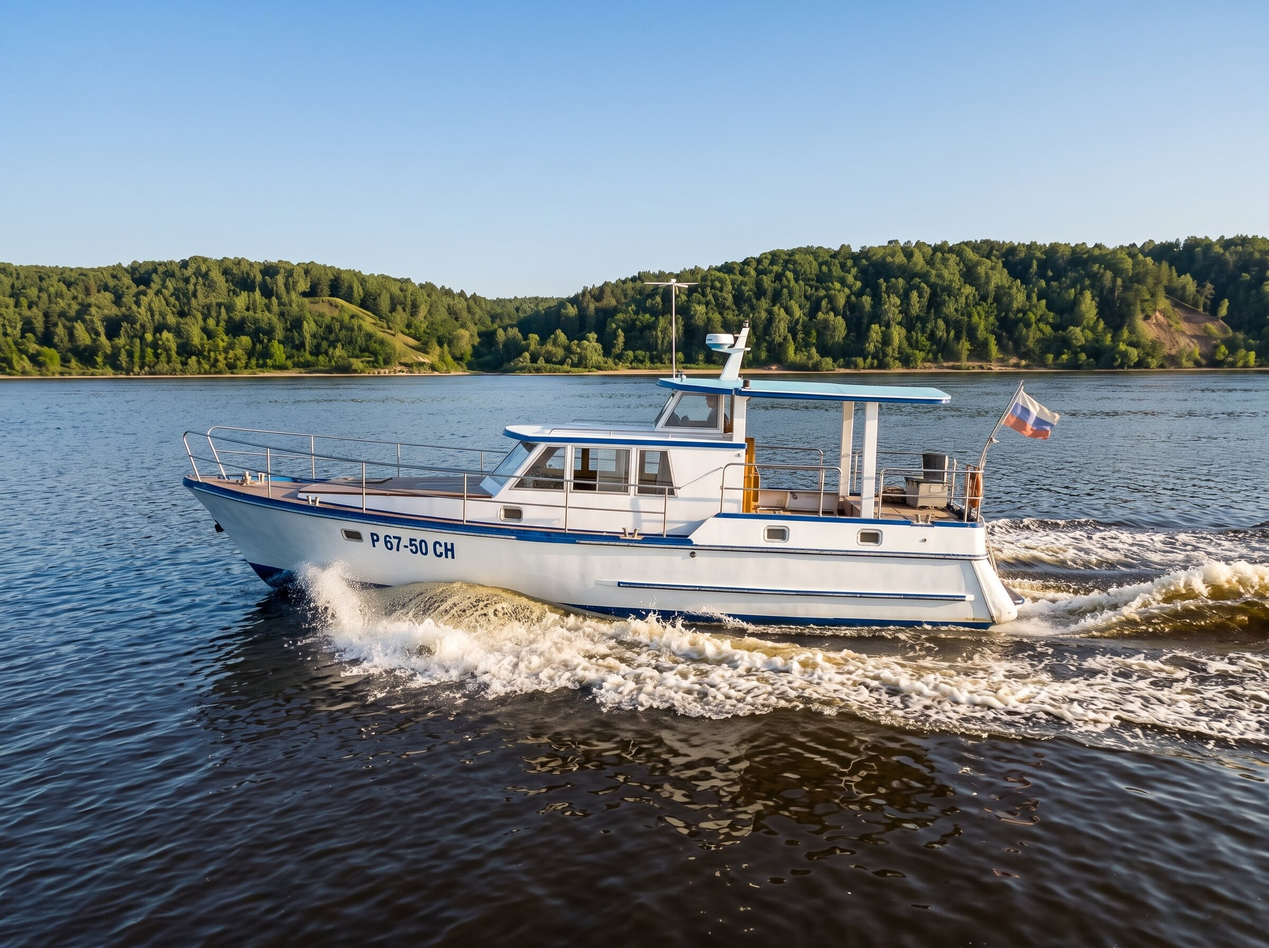
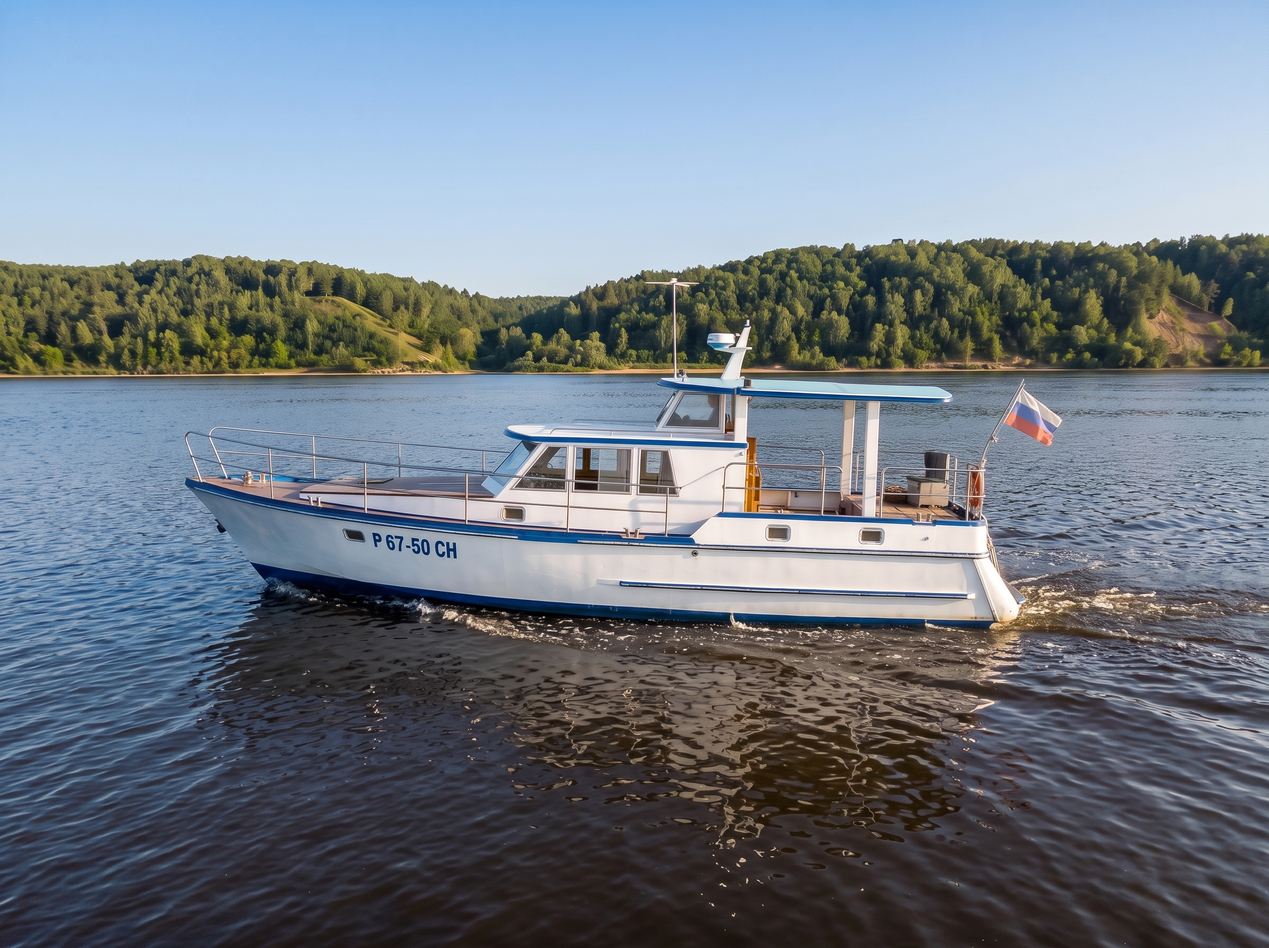
Гулянка №5: new second (hero2) photo
- swap gulyanka5-2.jpg, cache-bust v2
- bump boats-data.js v296

diff --git a/js/boats-data.js b/js/boats-data.js
@@ -630,7 +630,7 @@ const BOATS = [
       heroSpecs: [["Длина","16,8 м"],["Мощность","274 л.с."],["Дальность","3500+ миль"],["Каюты","3"]] } },
   // Гулянки
   { id: "gulyanka-1",family: "gulyanki", name: "Гулянка №5", status: "sold", year: "2017", img: "gulyanka5.jpg", cardImg: "gulyanka5-card.jpg", tags: ["На заказ"], noInteriors: true,
-    photos: { hero2: "gulyanka5-2.jpg", overview: "gulyanka5-overview.jpg", construction: "gulyanka5-story.jpg",
+    photos: { hero2: "gulyanka5-2.jpg?v=2", overview: "gulyanka5-overview.jpg", construction: "gulyanka5-story.jpg",
       plans: ["gulyanka5-plan-side.png"] },
     content: {
       eyebrow: "Моторная яхта",

diff --git a/index.html b/index.html
@@ -443,7 +443,7 @@
     </div>
   </footer>
 
-  <script src="js/boats-data.js?v=295"></script>
+  <script src="js/boats-data.js?v=296"></script>
   <script src="js/carousel.js?v=14"></script>
   <script src="js/features.js?v=4"></script>
   <script src="js/fleet-hover.js?v=5"></script>

diff --git a/fleet.html b/fleet.html
@@ -152,7 +152,7 @@
     </div>
   </footer>
 
-  <script src="js/boats-data.js?v=295"></script>
+  <script src="js/boats-data.js?v=296"></script>
   <script src="js/fleet.js?v=43"></script>
   <script src="js/contact-modal.js?v=2"></script>
 </body>

diff --git a/boat.html b/boat.html
@@ -280,7 +280,7 @@
     </div>
   </footer>
 
-  <script src="js/boats-data.js?v=295"></script>
+  <script src="js/boats-data.js?v=296"></script>
   <script src="js/boat.js?v=45"></script>
   <script src="js/contact-modal.js?v=2"></script>
 </body>
